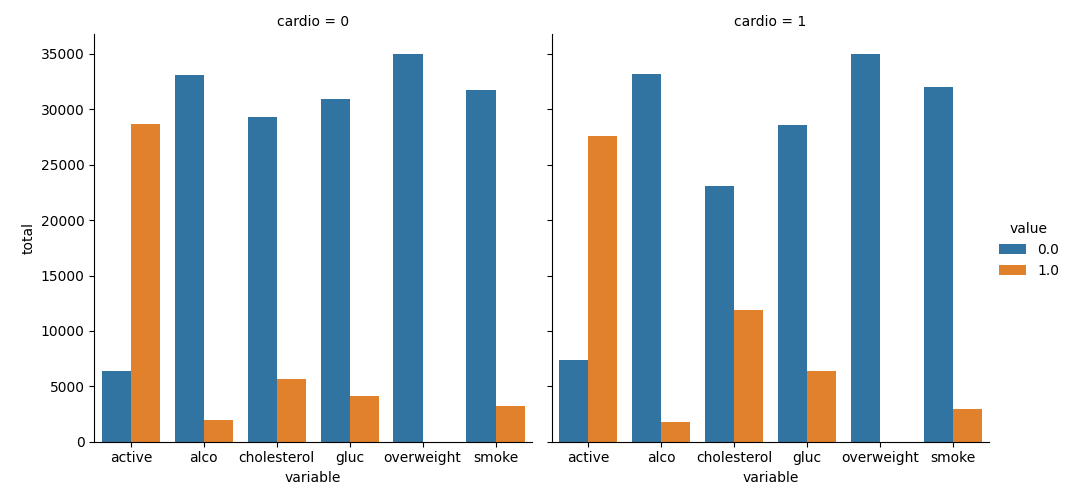
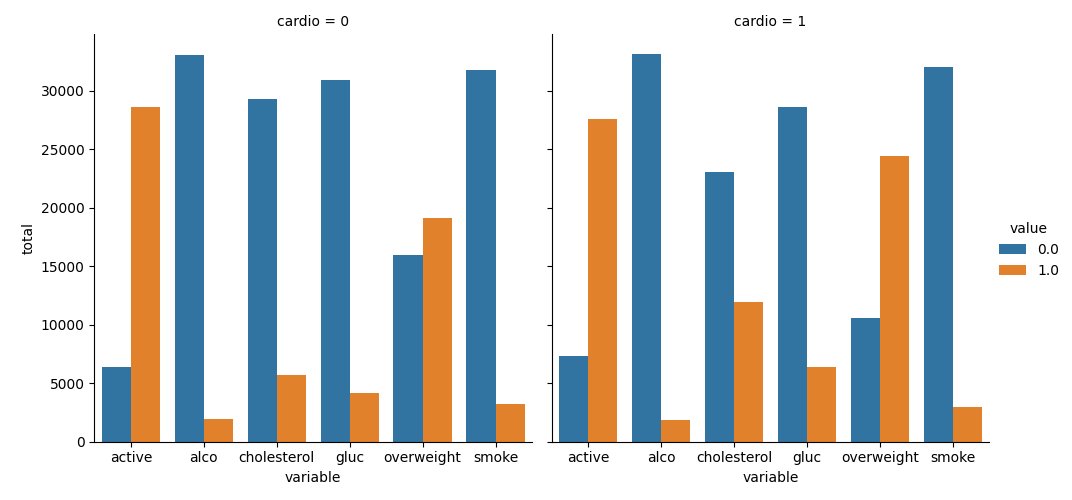
Final Version

diff --git a/fcc-medical-data-visualizer/medical_data_visualizer.py b/fcc-medical-data-visualizer/medical_data_visualizer.py
@@ -8,8 +8,8 @@ df = pd.read_csv('medical_examination.csv')
 
 # Add 'overweight' column
 df['overweight'] = df.weight/((df.height/100)**2)
-df.loc[df.overweight > 25, 'overweight'] = 1
 df.loc[df.overweight <= 25, 'overweight'] = 0
+df.loc[df.overweight > 25, 'overweight'] = 1
 
 # Normalize data by making 0 always good and 1 always bad. If the value of 'cholesterol' or 'gluc' is 1, make the value 0. If the value is more than 1, make the value 1.
 df.loc[df.gluc==1,'gluc'] = 0
@@ -40,7 +40,7 @@ def draw_cat_plot():
 # Draw Heat Map
 def draw_heat_map():
     # Clean the data
-    df_heat = df[df.ap_lo <= df.hi_hi]
+    df_heat = df[df.ap_lo <= df.ap_hi]
     h025 = df['height'].quantile(0.025)
     h975 = df['height'].quantile(0.975)
     w025 = df['weight'].quantile(0.025)
@@ -56,7 +56,7 @@ def draw_heat_map():
 
 
     # Generate a mask for the upper triangle
-     mask = np.triu(np.ones_like(corr, dtype=np.bool))
+    mask = np.triu(np.ones_like(corr, dtype=bool))
 
 
 
